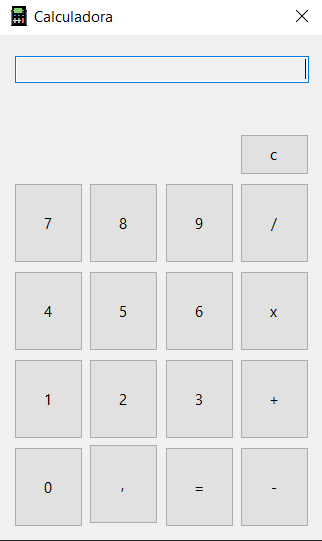
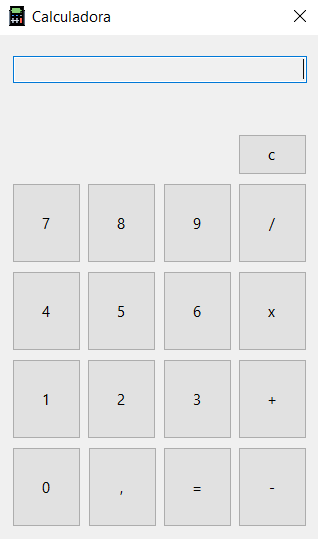
Add files via upload

diff --git a/Calculadora/Form1.Designer.cs b/Calculadora/Form1.Designer.cs
@@ -172,7 +172,7 @@
             // 
             // btnVirgula
             // 
-            btnVirgula.Location = new Point(89, 409);
+            btnVirgula.Location = new Point(90, 412);
             btnVirgula.Margin = new Padding(3, 4, 3, 4);
             btnVirgula.Name = "btnVirgula";
             btnVirgula.Size = new Size(69, 80);
